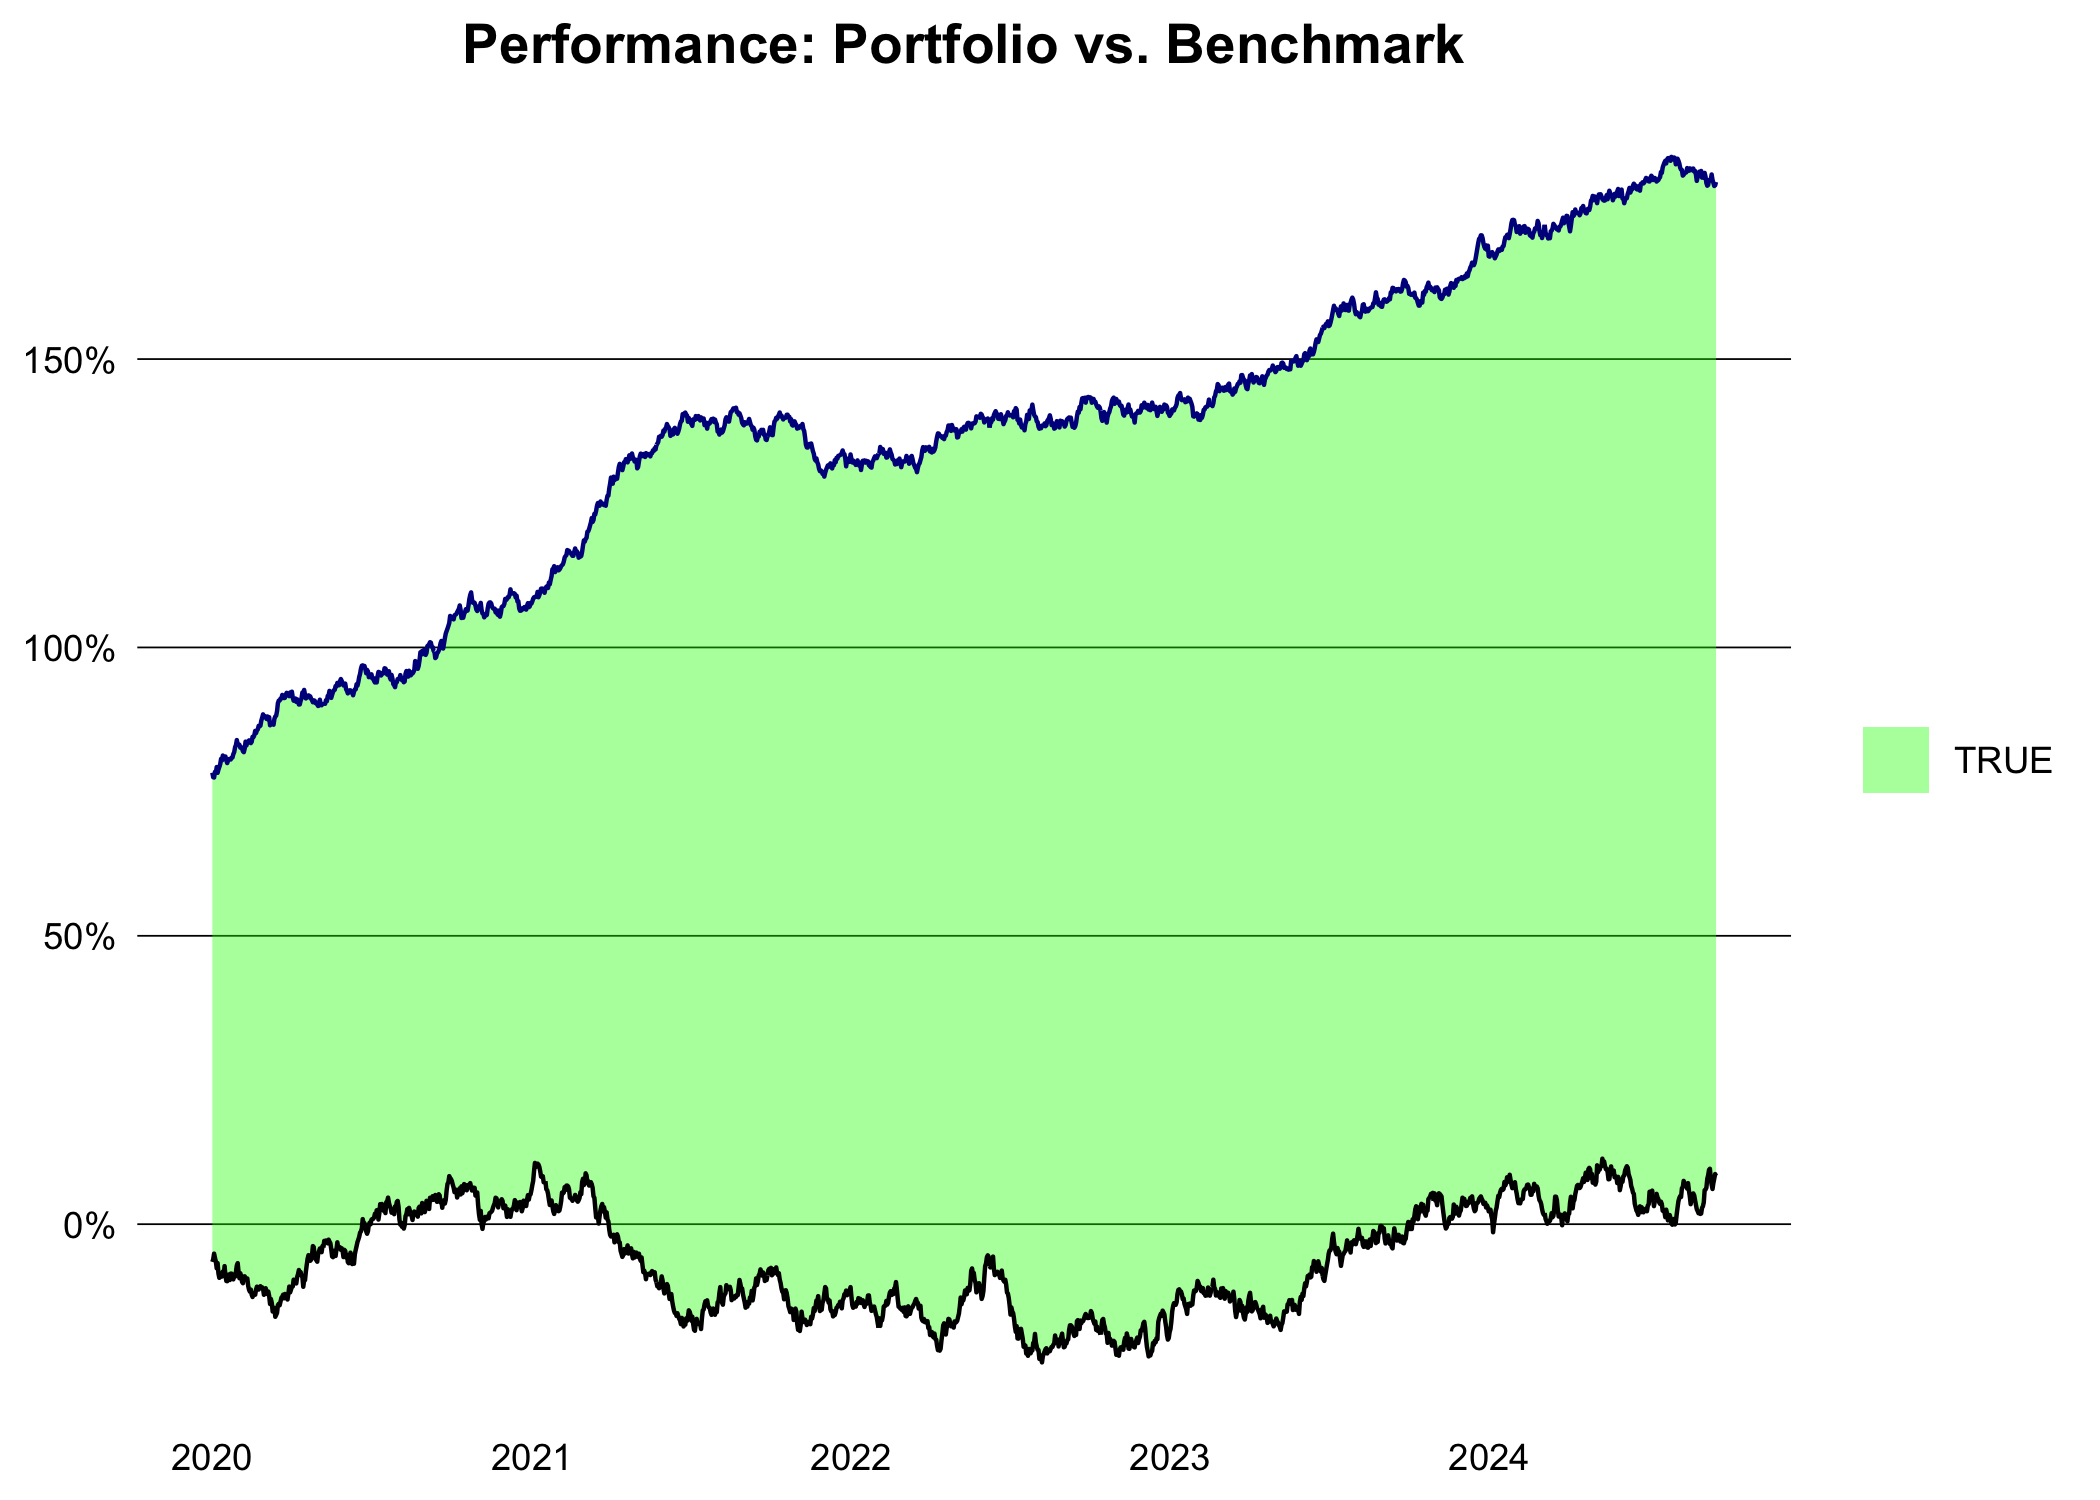
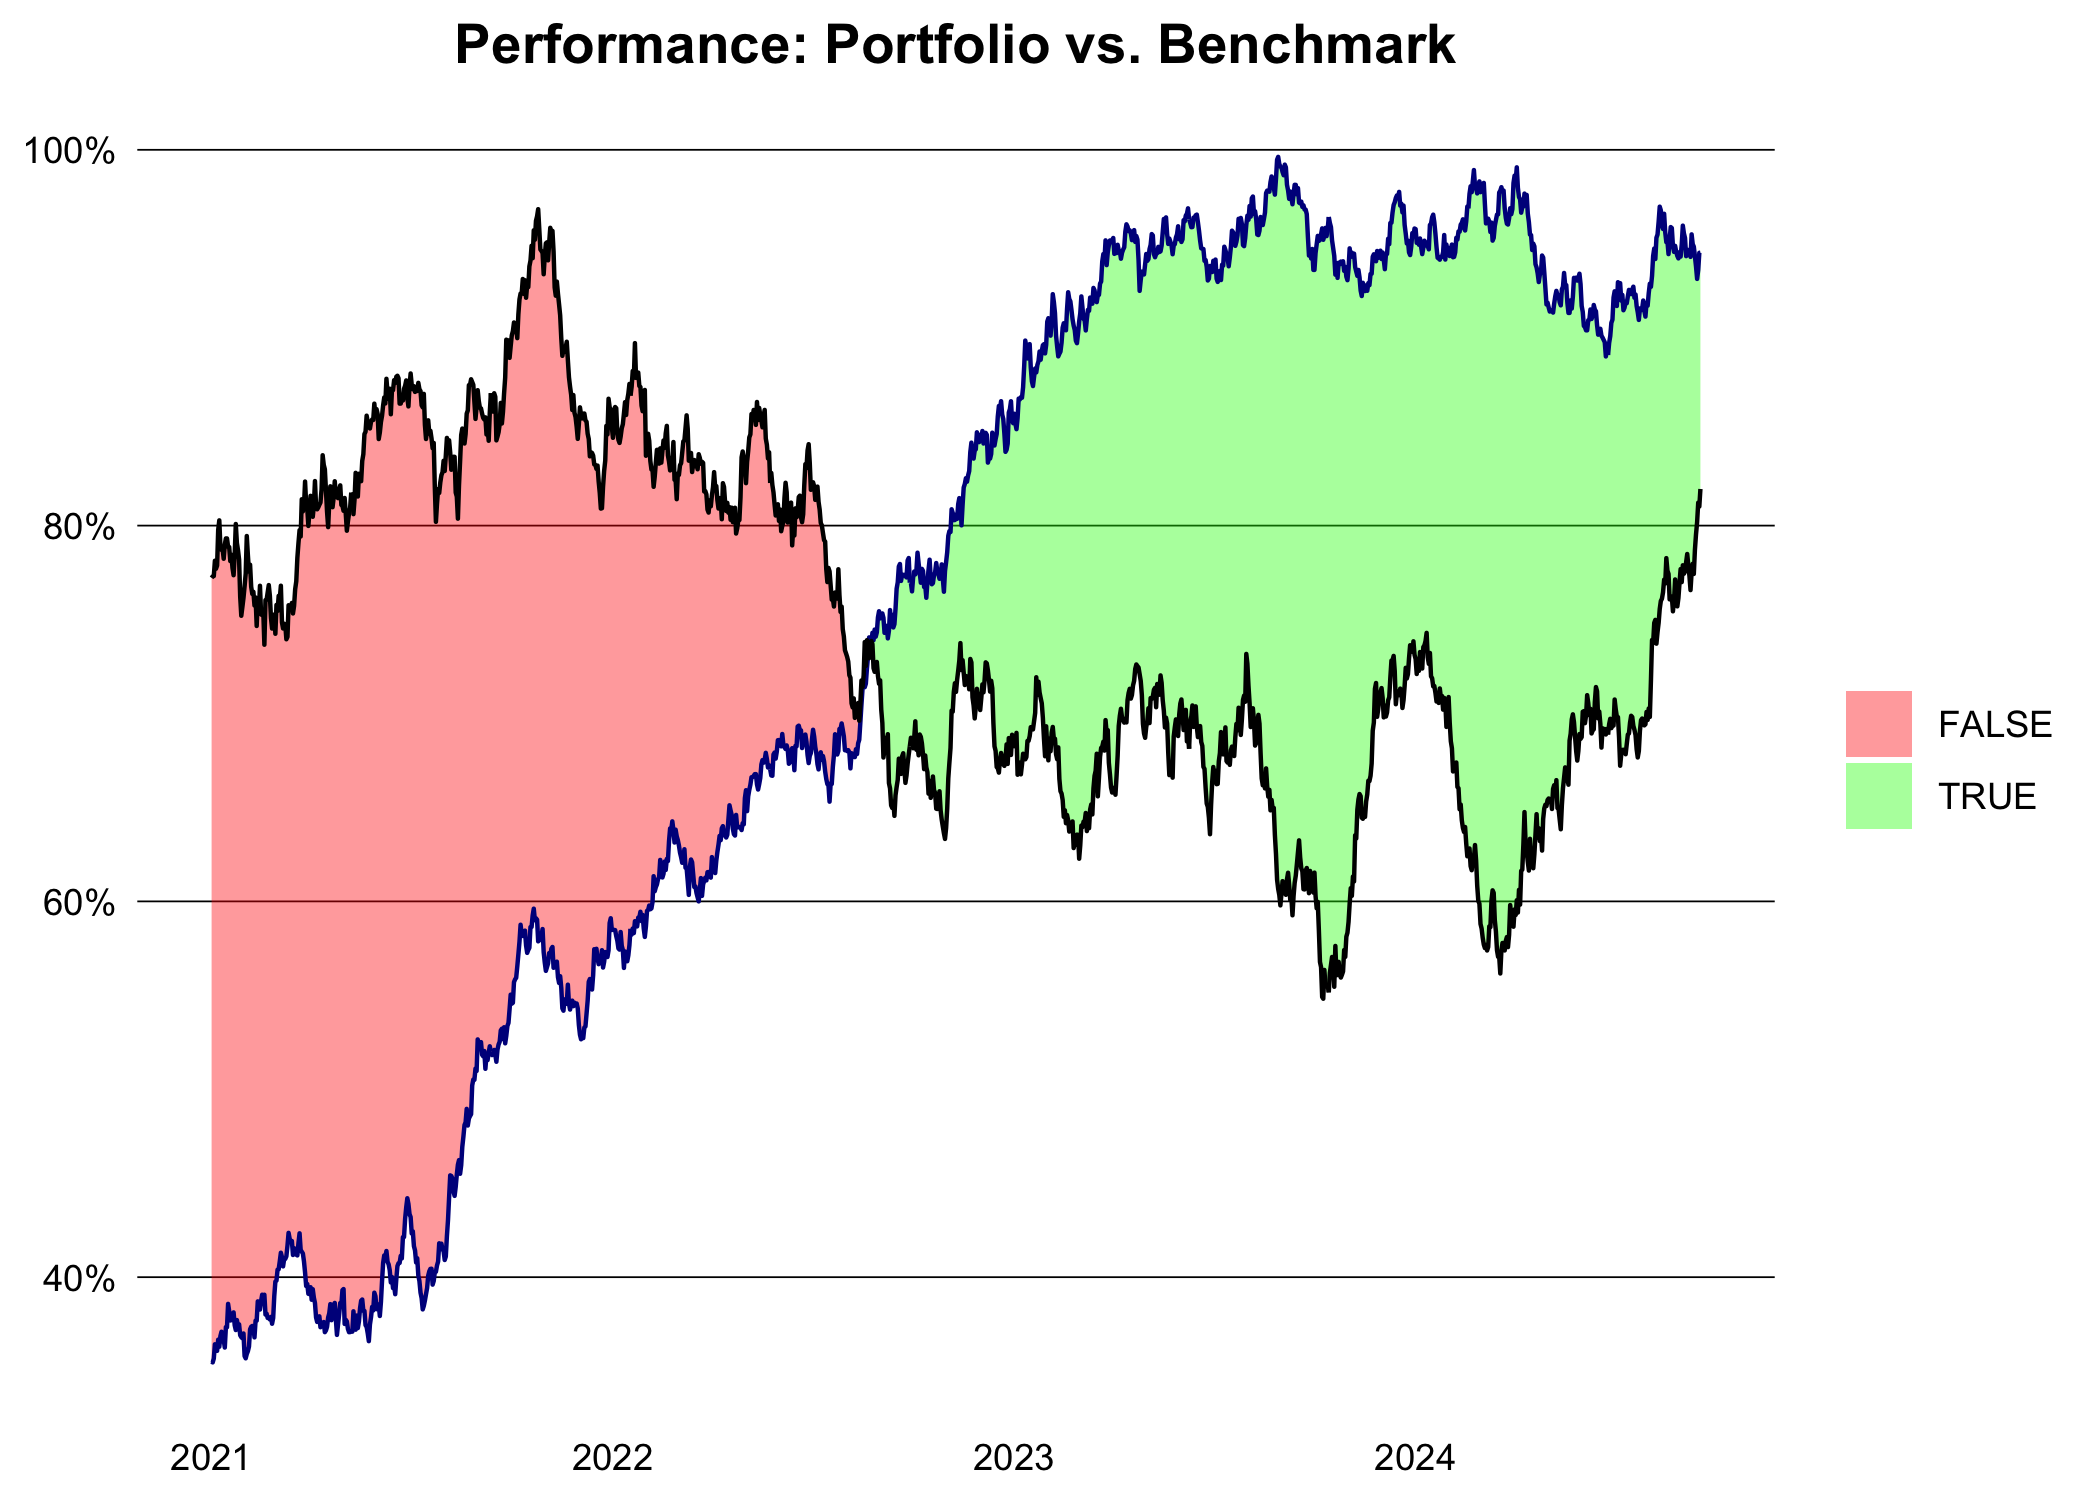
more text adjust the seed etc.

diff --git a/README.md b/README.md
@@ -1,7 +1,8 @@
 # data.table finance patterns
 
 The goal of this document is to store common financial calculations
-using the `data.table` package using the latest R and data.table syntax.
+using the `data.table` package using the latest `R >= 4.4` and
+`data.table >= 1.16` syntax.
 
 ## Portfolio Management
 
@@ -12,7 +13,7 @@ Generate some fake stock prices for a few tickers.
 ``` r
 library(data.table)
 
-set.seed(1234L)
+set.seed(1994L)
 
 generate_prices <- function(ticker, start_date, end_date) {
   dates <- seq.Date(as.Date(start_date), as.Date(end_date), by = "days")
@@ -28,7 +29,7 @@ generate_prices <- function(ticker, start_date, end_date) {
 generate_benchmark <- function(start_date, end_date) {
   dates <- seq.Date(as.Date(start_date), as.Date(end_date), by = "days")
   n <- length(dates)
-  prices <- cumprod(1 + rnorm(n, mean = 0.0003, sd = 0.008)) * 3000  # Base price around 3000
+  prices <- cumprod(1 + rnorm(n, mean = 0.0003, sd = 0.008)) * 3000
   data.table(
     ticker = "SP500",
     date = dates,
@@ -52,12 +53,12 @@ head(dt)
 
        ticker       date     price weight country
        <char>     <Date>     <num>  <num>  <char>
-    1:   AAPL 2015-01-01  98.84293    0.4     USA
-    2:   AAPL 2015-01-02  99.16657    0.4     USA
-    3:   AAPL 2015-01-03 100.29156    0.4     USA
-    4:   AAPL 2015-01-04  97.98917    0.4     USA
-    5:   AAPL 2015-01-05  98.45866    0.4     USA
-    6:   AAPL 2015-01-06  99.00615    0.4     USA
+    1:   AAPL 2015-01-01  98.76269    0.4     USA
+    2:   AAPL 2015-01-02  99.09730    0.4     USA
+    3:   AAPL 2015-01-03 100.83187    0.4     USA
+    4:   AAPL 2015-01-04 102.29253    0.4     USA
+    5:   AAPL 2015-01-05 102.44505    0.4     USA
+    6:   AAPL 2015-01-06 101.12377    0.4     USA
 
 #### Calculate returns
 
@@ -76,12 +77,12 @@ head(dt)
 
        ticker       date    price weight country          ret         wret
        <char>     <Date>    <num>  <num>  <char>        <num>        <num>
-    1:   AAPL 2015-01-02 4.596801    0.4     USA  0.003268944  0.001307577
-    2:   AAPL 2015-01-03 4.608082    0.4     USA  0.011280546  0.004512219
-    3:   AAPL 2015-01-04 4.584857    0.4     USA -0.023224592 -0.009289837
-    4:   AAPL 2015-01-05 4.589637    0.4     USA  0.004779805  0.001911922
-    5:   AAPL 2015-01-06 4.595182    0.4     USA  0.005545156  0.002218062
-    6:   AAPL 2015-01-07 4.589921    0.4     USA -0.005261216 -0.002104486
+    1:   AAPL 2015-01-02 4.596102    0.4     USA  0.003382387  0.001352955
+    2:   AAPL 2015-01-03 4.613455    0.4     USA  0.017352273  0.006940909
+    3:   AAPL 2015-01-04 4.627837    0.4     USA  0.014382158  0.005752863
+    4:   AAPL 2015-01-05 4.629327    0.4     USA  0.001489923  0.000595969
+    5:   AAPL 2015-01-06 4.616345    0.4     USA -0.012981380 -0.005192552
+    6:   AAPL 2015-01-07 4.624884    0.4     USA  0.008538542  0.003415417
 
 #### Calculate weekly, monthly and yearly returns
 
@@ -97,12 +98,12 @@ head(ret_year)
 
        ticker  year         ret
        <char> <int>       <num>
-    1:   AAPL  2015  0.23085710
-    2:   AAPL  2016 -0.13173292
-    3:   AAPL  2017  0.04703517
-    4:   AAPL  2018  0.38669953
-    5:   AAPL  2019 -0.01543271
-    6:   AAPL  2020  0.40194567
+    1:   AAPL  2015  0.15657366
+    2:   AAPL  2016  0.13040908
+    3:   AAPL  2017  0.05506831
+    4:   AAPL  2018  0.19586294
+    5:   AAPL  2019 -0.34758024
+    6:   AAPL  2020  0.35821832
 
 Return for the portfolio:
 
@@ -113,14 +114,14 @@ port_ret_year <- dt[, .(ret = sum(wret)), by = year]
 head(port_ret_year)
 ```
 
-        year        ret
-       <int>      <num>
-    1:  2015 0.22366883
-    2:  2016 0.07547072
-    3:  2017 0.14187947
-    4:  2018 0.18890048
-    5:  2019 0.14811013
-    6:  2020 0.29799270
+        year         ret
+       <int>       <num>
+    1:  2015  0.14060793
+    2:  2016  0.17495184
+    3:  2017  0.11483987
+    4:  2018  0.09582058
+    5:  2019 -0.21623988
+    6:  2020  0.03894370
 
 #### Compare with benchmark
 
@@ -147,7 +148,7 @@ Compare the portfolio with the benchmark performance:
 library(ggplot2)
 
 port |>
-  _[between(date, "2020-01-01", max(date))] |>
+  _[between(date, "2021-01-01", max(date))] |>
   ggplot(aes(x = date, y = cum_ret, color = ticker)) +
   geom_line() +
   theme_minimal() +
@@ -171,19 +172,21 @@ Or turn it into a wide-format and show display the performance as a line
 area chart:
 
 ``` r
+# TODO: remove the legend and bmr/port labels
 perf <- port |>
   dcast(date ~ ticker, value.var = "cum_ret") |>
   setnames(tolower) |>
   _[, diff := portfolio - benchmark][]
 
 perf |>
-  _[between(date, "2020-01-01", max(date))] |>
+  _[between(date, "2021-01-01", max(date))] |>
   ggplot(aes(x = date)) +
   geom_ribbon(aes(
       ymin = pmin(portfolio, benchmark),
       ymax = pmax(portfolio, benchmark),
       fill = diff > 0
-    ), alpha = 0.4
+    ),
+    alpha = 0.4
   ) +
   geom_line(aes(y = portfolio), color = "darkblue") +
   geom_line(aes(y = benchmark), color = "black") +
@@ -220,12 +223,12 @@ head(vola)
 
        ticker  year  daily_vola weekly_vola monthly_vola yearly_vola
        <char> <int>       <num>       <num>        <num>       <num>
-    1:   AAPL  2015 0.009941480  0.02222982   0.04555758   0.1578161
-    2:   AAPL  2016 0.010131227  0.02265411   0.04642711   0.1608282
-    3:   AAPL  2017 0.009635371  0.02154534   0.04415482   0.1529568
-    4:   AAPL  2018 0.009500847  0.02124454   0.04353835   0.1508213
-    5:   AAPL  2019 0.010148660  0.02269309   0.04650700   0.1611050
-    6:   AAPL  2020 0.010526706  0.02353843   0.04823943   0.1671063
+    1:   AAPL  2015 0.009838597  0.02199977   0.04508612   0.1561829
+    2:   AAPL  2016 0.010356613  0.02315809   0.04745996   0.1644061
+    3:   AAPL  2017 0.009602949  0.02147285   0.04400624   0.1524421
+    4:   AAPL  2018 0.010043538  0.02245803   0.04602527   0.1594362
+    5:   AAPL  2019 0.010341000  0.02312318   0.04738842   0.1641583
+    6:   AAPL  2020 0.009245012  0.02067247   0.04236597   0.1467600
 
 #### TODO:
 
